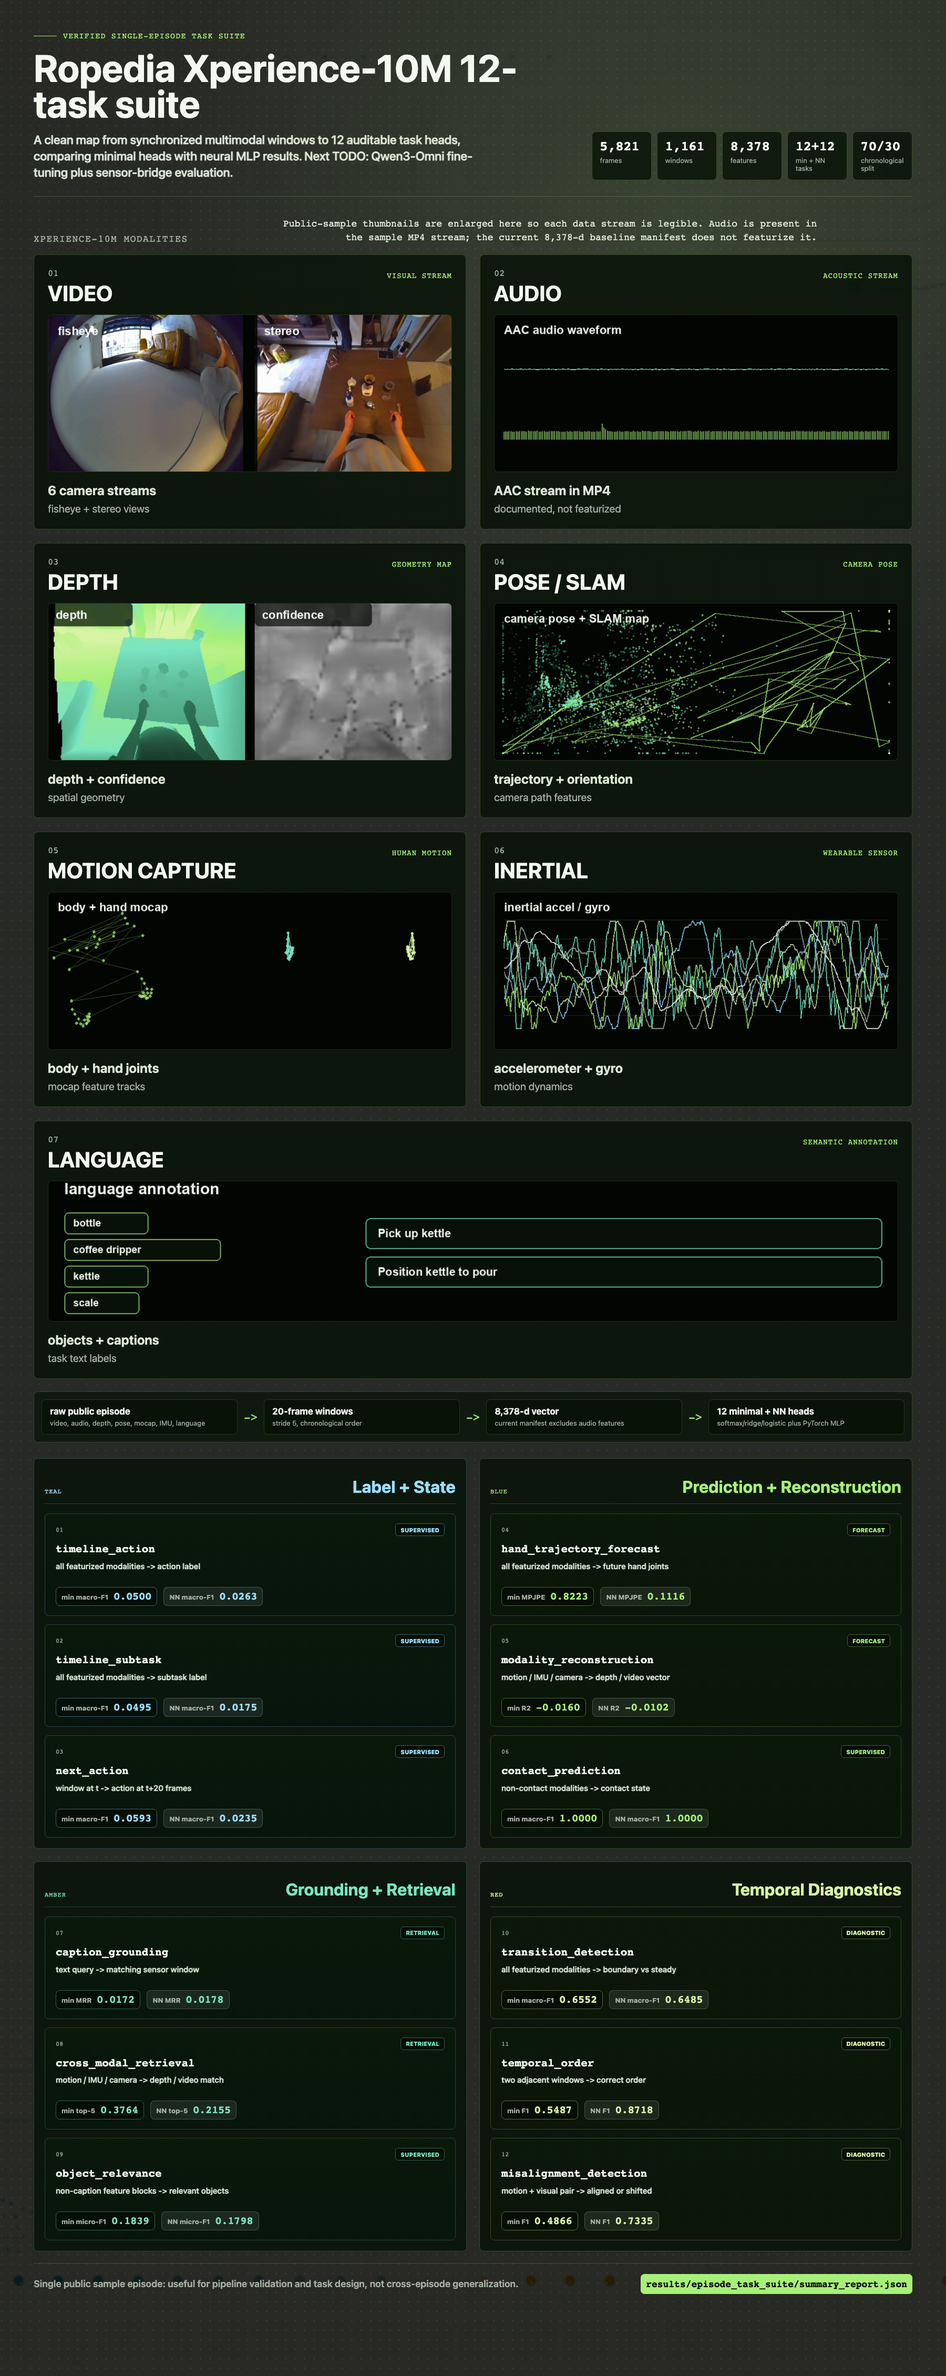
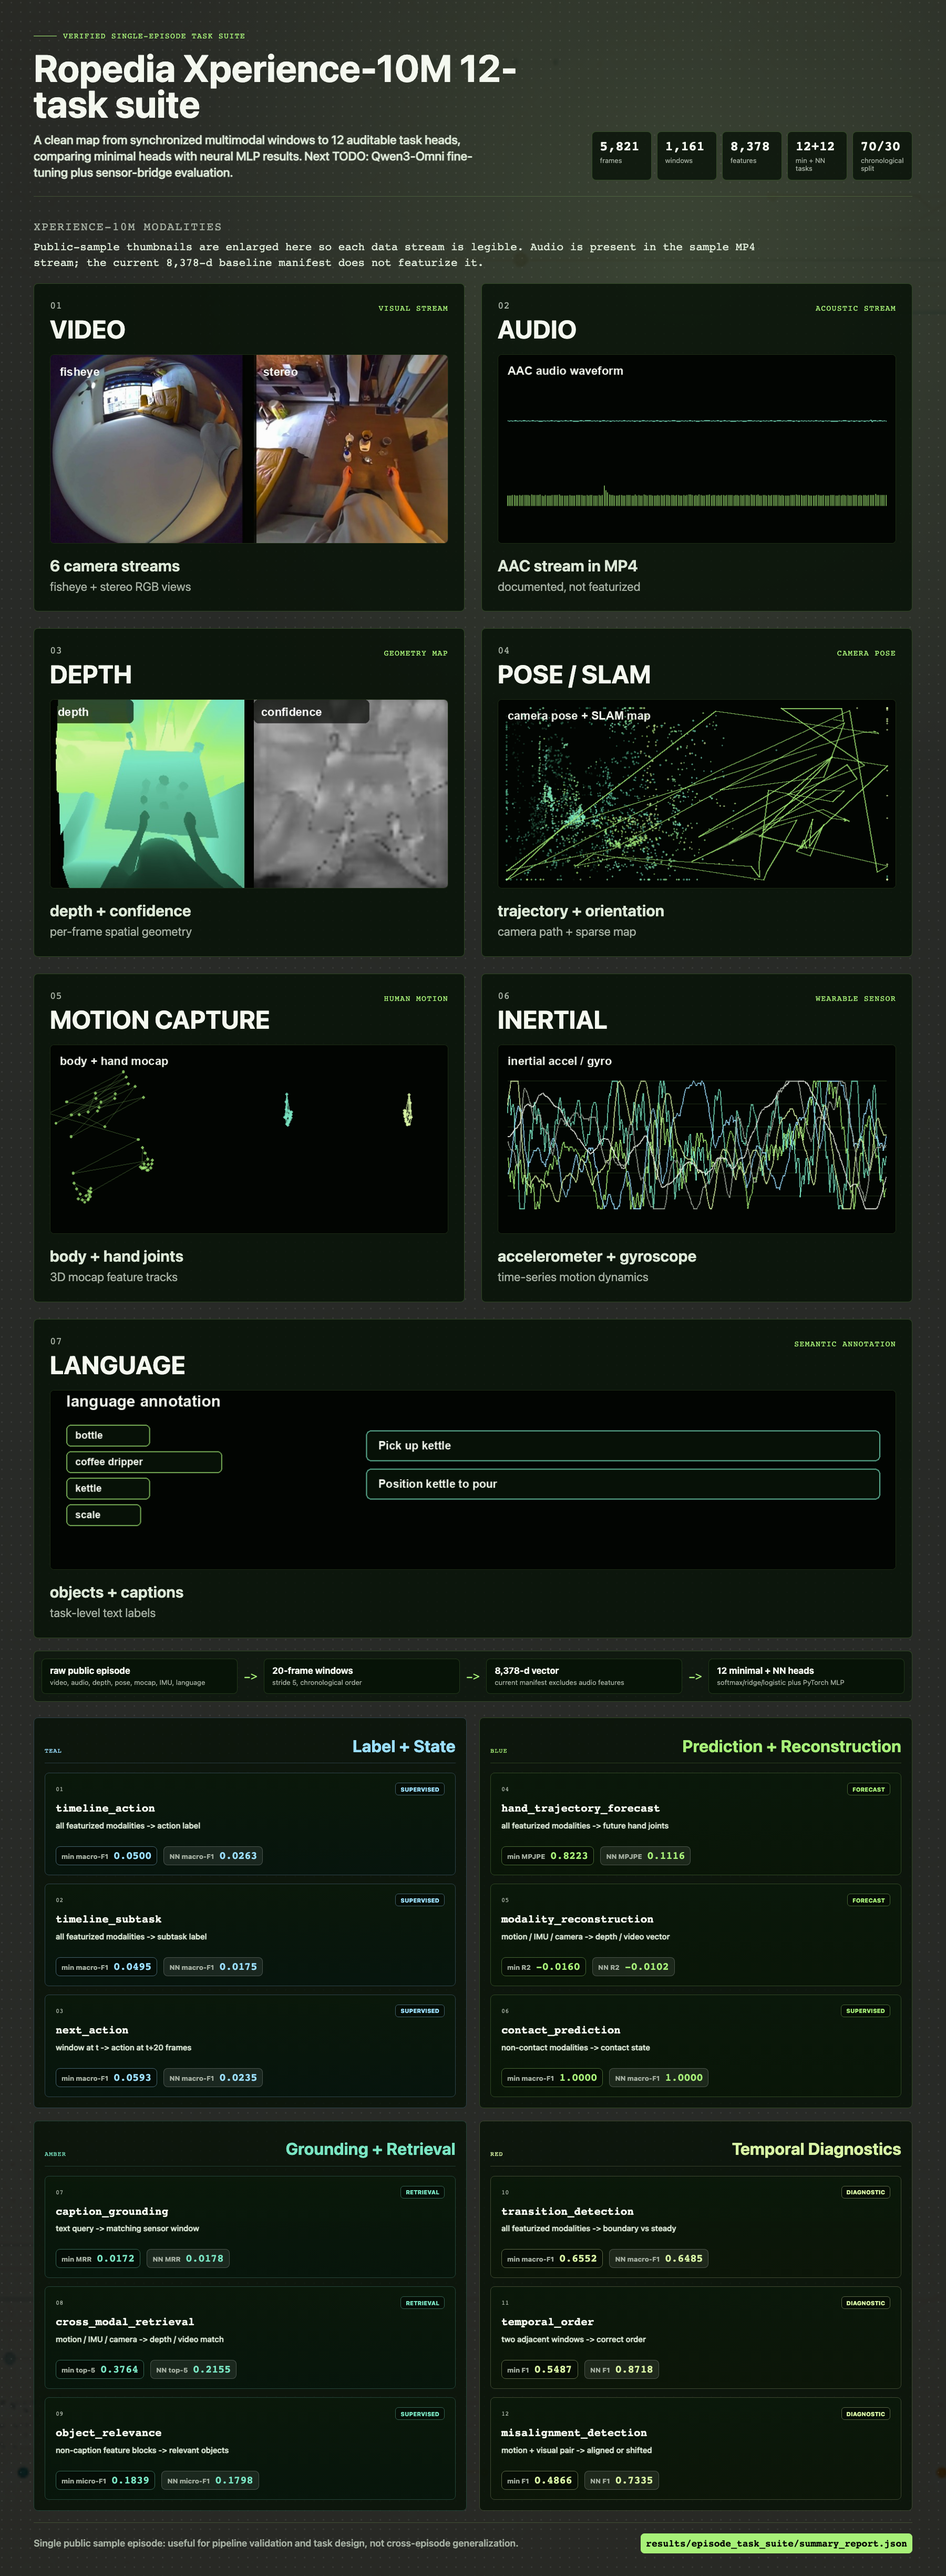
Refine modality atlas layout

Changed region(s): [[0.0311, 0.0, 0.9644, 0.9982], [0.4978, 0.0, 0.5289, 0.0312]]

diff --git a/docs/index.html b/docs/index.html
@@ -13,11 +13,11 @@
   <meta property="og:description" content="One public embodied-AI episode, converted into reproducible multimodal tasks, minimal baselines, neural MLP baselines, metrics, and diagrams.">
   <meta property="og:type" content="website">
   <meta property="og:url" content="https://chaoyue0307.github.io/ropedia-xperience-10m-task-suite/">
-  <meta property="og:image" content="https://chaoyue0307.github.io/ropedia-xperience-10m-task-suite/assets/task_suite_infographic.png?v=xperience10m-modalities-v4">
+  <meta property="og:image" content="https://chaoyue0307.github.io/ropedia-xperience-10m-task-suite/assets/task_suite_infographic.png?v=xperience10m-modalities-v5">
   <meta name="twitter:card" content="summary_large_image">
   <meta name="twitter:title" content="Ropedia Xperience-10M Task Suite">
   <meta name="twitter:description" content="Audit-first Xperience-10M multimodal task suite with minimal and neural baselines.">
-  <meta name="twitter:image" content="https://chaoyue0307.github.io/ropedia-xperience-10m-task-suite/assets/task_suite_infographic.png?v=xperience10m-modalities-v4">
+  <meta name="twitter:image" content="https://chaoyue0307.github.io/ropedia-xperience-10m-task-suite/assets/task_suite_infographic.png?v=xperience10m-modalities-v5">
   <script type="application/ld+json">
     {
       "@context": "https://schema.org",
@@ -349,6 +349,7 @@
     }
     .figure-pan .task-suite-image {
       margin-bottom: 0;
+      min-width: 1320px;
     }
     .architecture-image {
       display: block;
@@ -935,7 +936,7 @@
           <p>The top-level map shows the Xperience-10M sample modalities and the verified 12-task results. Audio is present in the sample MP4 stream, but the current 8,378-d baseline manifest does not featurize it.</p>
         </div>
         <div class="figure-pan">
-          <img class="task-suite-image" src="assets/task_suite_infographic.png?v=xperience10m-modalities-v4" alt="ChatGPT-image-backed infographic showing all 12 Ropedia Xperience-10M tasks">
+          <img class="task-suite-image" src="assets/task_suite_infographic.png?v=xperience10m-modalities-v5" alt="ChatGPT-image-backed infographic showing all 12 Ropedia Xperience-10M tasks">
         </div>
       </div>
     </section>

diff --git a/scripts/render_task_suite_infographic.py b/scripts/render_task_suite_infographic.py
@@ -25,9 +25,9 @@ DEFAULT_BASE = ROOT / "docs/assets/task_suite_infographic_base.png"
 DEFAULT_SAMPLE_DIR = ROOT.parent / "data/sample/xperience-10m-sample"
 DEFAULT_OUTPUT = ROOT / "docs/assets/task_suite_infographic.png"
 CANVAS_WIDTH = 1800
-CANVAS_HEIGHT = 4520
+CANVAS_HEIGHT = 4900
 THUMB_WIDTH = 760
-THUMB_HEIGHT = 300
+THUMB_HEIGHT = 360
 
 
 GROUPS = [
@@ -78,13 +78,13 @@ GROUPS = [
 ]
 
 MODALITIES = [
-    ("video", "visual stream", "6 camera streams", "fisheye + stereo views"),
+    ("video", "visual stream", "6 camera streams", "fisheye + stereo RGB views"),
     ("audio", "acoustic stream", "AAC stream in MP4", "documented, not featurized"),
-    ("depth", "geometry map", "depth + confidence", "spatial geometry"),
-    ("pose / SLAM", "camera pose", "trajectory + orientation", "camera path features"),
-    ("motion capture", "human motion", "body + hand joints", "mocap feature tracks"),
-    ("inertial", "wearable sensor", "accelerometer + gyro", "motion dynamics"),
-    ("language", "semantic annotation", "objects + captions", "task text labels"),
+    ("depth", "geometry map", "depth + confidence", "per-frame spatial geometry"),
+    ("pose / SLAM", "camera pose", "trajectory + orientation", "camera path + sparse map"),
+    ("motion capture", "human motion", "body + hand joints", "3D mocap feature tracks"),
+    ("inertial", "wearable sensor", "accelerometer + gyroscope", "time-series motion dynamics"),
+    ("language", "semantic annotation", "objects + captions", "task-level text labels"),
 ]
 
 HAND_EDGES = [
@@ -249,22 +249,22 @@ def audio_thumb(sample_dir: Path) -> str:
         chunks = np.array_split(trimmed, bins)
         rms = np.array([np.sqrt(np.mean(chunk * chunk)) if len(chunk) else 0.0 for chunk in chunks])
         waveform = np.array([float(np.mean(chunk)) if len(chunk) else 0.0 for chunk in chunks])
-        baseline = THUMB_HEIGHT - 64
+        baseline = THUMB_HEIGHT - 72
         for i, value in enumerate(rms):
             x = 18 + i / max(bins - 1, 1) * (THUMB_WIDTH - 36)
-            h = 10 + np.clip(value * 128, 0, 128)
+            h = 14 + np.clip(value * 158, 0, 158)
             draw.line((x, baseline, x, baseline - h), fill=(167, 240, 120, 170), width=2)
         points = []
         for i, value in enumerate(waveform):
             x = 18 + i / max(bins - 1, 1) * (THUMB_WIDTH - 36)
-            y = 104 - np.clip(value, -1, 1) * 64
+            y = 126 - np.clip(value, -1, 1) * 82
             points.append((x, y))
         draw.line(points, fill=(122, 229, 195, 220), width=2)
     except Exception:
         for i in range(48):
             x = 22 + i * 8
             h = 16 + (i % 7) * 7
-            draw.rounded_rectangle((x, THUMB_HEIGHT - 64 - h, x + 4, THUMB_HEIGHT - 64), radius=2, fill=(167, 240, 120, 170))
+            draw.rounded_rectangle((x, THUMB_HEIGHT - 72 - h, x + 4, THUMB_HEIGHT - 72), radius=2, fill=(167, 240, 120, 170))
     draw_label(draw, (18, 18), "AAC audio waveform", fill=(244, 248, 239), size=22)
     return image_data_uri(canvas, "PNG")
 
@@ -321,7 +321,7 @@ def imu_thumb(h5) -> str:
     series = [accel[:, 0], accel[:, 1], accel[:, 2], gyro[:, 0], gyro[:, 1], gyro[:, 2]]
     colors = [(167, 240, 120), (122, 229, 195), (155, 223, 255), (216, 244, 165), (244, 248, 239), (165, 175, 162)]
     for row in range(6):
-        y = 54 + row * 36
+        y = 68 + row * 44
         draw.line((18, y, THUMB_WIDTH - 18, y), fill=(167, 240, 120, 48), width=1)
     for values, color in zip(series, colors):
         values = values[:420]
@@ -332,7 +332,7 @@ def imu_thumb(h5) -> str:
         pts = []
         for i, v in enumerate(norm):
             x = 18 + i / max(len(values) - 1, 1) * (THUMB_WIDTH - 36)
-            y = THUMB_HEIGHT - 42 - np.clip(v, 0, 1) * 202
+            y = THUMB_HEIGHT - 48 - np.clip(v, 0, 1) * (THUMB_HEIGHT - 116)
             pts.append((x, y))
         draw.line(pts, fill=color + (200,), width=2)
     draw_label(draw, (18, 18), "inertial accel / gyro", fill=(244, 248, 239), size=22)
@@ -357,7 +357,7 @@ def mocap_thumb(h5) -> str:
         xy = (points[:, :2] - lo) / span
         xy[:, 1] = 1 - xy[:, 1]
         xy[:, 0] = x_offset + xy[:, 0] * width
-        xy[:, 1] = 60 + xy[:, 1] * 190
+        xy[:, 1] = 72 + xy[:, 1] * (THUMB_HEIGHT - 136)
         return xy
 
     body_xy = project(body, 28, 270)
@@ -682,54 +682,54 @@ def build_html(summary: dict, base_image: Path | None, sample_dir: Path | None) 
     }}
     .section-label {{
       display: grid;
-      grid-template-columns: 0.36fr minmax(0, 1fr);
-      gap: 24px;
-      align-items: end;
-      margin: 38px 0 20px;
+      grid-template-columns: 1fr;
+      gap: 12px;
+      align-items: start;
+      margin: 44px 0 24px;
       color: #a5afa2;
       font-family: "SF Mono", "JetBrains Mono", ui-monospace, monospace;
-      font-size: 18px;
+      font-size: 22px;
       text-transform: uppercase;
       letter-spacing: 0.08em;
     }}
     .section-label span:last-child {{
-      max-width: 1030px;
+      max-width: 1400px;
       color: #dce8d7;
       text-transform: none;
       letter-spacing: 0;
       font-family: inherit;
-      font-size: 18px;
-      line-height: 1.45;
-      text-align: right;
+      font-size: 21px;
+      line-height: 1.42;
+      text-align: left;
     }}
     .modalities {{
       display: grid;
       grid-template-columns: repeat(2, minmax(0, 1fr));
-      gap: 26px;
+      gap: 32px;
     }}
     .modality {{
-      min-height: 510px;
-      padding: 24px 26px 26px;
+      min-height: 620px;
+      padding: 30px 30px 32px;
       border: 1px solid rgba(167,240,120,0.22);
       background: rgba(7,18,7,0.84);
       border-radius: 8px;
       display: flex;
       flex-direction: column;
-      gap: 20px;
+      gap: 24px;
     }}
     .modality:nth-child(7) {{
       grid-column: 1 / -1;
-      min-height: 438px;
+      min-height: 552px;
     }}
     .modality-thumb {{
-      height: 300px;
+      height: 360px;
       overflow: hidden;
       border: 1px solid rgba(167,240,120,0.16);
       border-radius: 8px;
       background: #020502;
     }}
     .modality:nth-child(7) .modality-thumb {{
-      height: 268px;
+      height: 342px;
     }}
     .modality-thumb img {{
       display: block;
@@ -750,22 +750,22 @@ def build_html(summary: dict, base_image: Path | None, sample_dir: Path | None) 
     }}
     .modality-index {{
       color: #a5afa2;
-      font-size: 17px;
+      font-size: 19px;
     }}
     .modality-type {{
       color: #a7f078;
       font-family: "SF Mono", "JetBrains Mono", ui-monospace, monospace;
-      font-size: 14px;
+      font-size: 15px;
       line-height: 1.15;
       text-transform: uppercase;
       letter-spacing: 0.08em;
       text-align: right;
-      max-width: 260px;
-      padding-top: 7px;
+      max-width: 300px;
+      padding-top: 8px;
     }}
     .modality h3 {{
-      margin: 9px 0 0;
-      font-size: 41px;
+      margin: 11px 0 0;
+      font-size: 48px;
       line-height: 0.98;
       text-transform: uppercase;
     }}
@@ -775,14 +775,14 @@ def build_html(summary: dict, base_image: Path | None, sample_dir: Path | None) 
     .modality-copy p {{
       margin: 0;
       color: #dce8d7;
-      font-size: 25px;
+      font-size: 30px;
       font-weight: 650;
     }}
     .modality-copy span {{
       display: block;
-      margin-top: 8px;
+      margin-top: 9px;
       color: #a5afa2;
-      font-size: 20px;
+      font-size: 23px;
       line-height: 1.25;
     }}
     .shared-band {{

diff --git a/README.md b/README.md
@@ -132,7 +132,7 @@ The code files are MIT-licensed. Raw Xperience-10M data is not redistributed
 here, and dataset use remains governed by the official Ropedia/Xperience-10M
 terms. See [`LICENSE`](LICENSE) and [`DATA_NOTICE.md`](DATA_NOTICE.md).
 
-![ChatGPT-image-backed Ropedia Xperience-10M 12-task infographic](docs/assets/task_suite_infographic.png?v=xperience10m-modalities-v4)
+![ChatGPT-image-backed Ropedia Xperience-10M 12-task infographic](docs/assets/task_suite_infographic.png?v=xperience10m-modalities-v5)
 
 The infographic uses a ChatGPT-image-generated text-free research background and
 larger modality-atlas thumbnails extracted from the public sample episode. The
